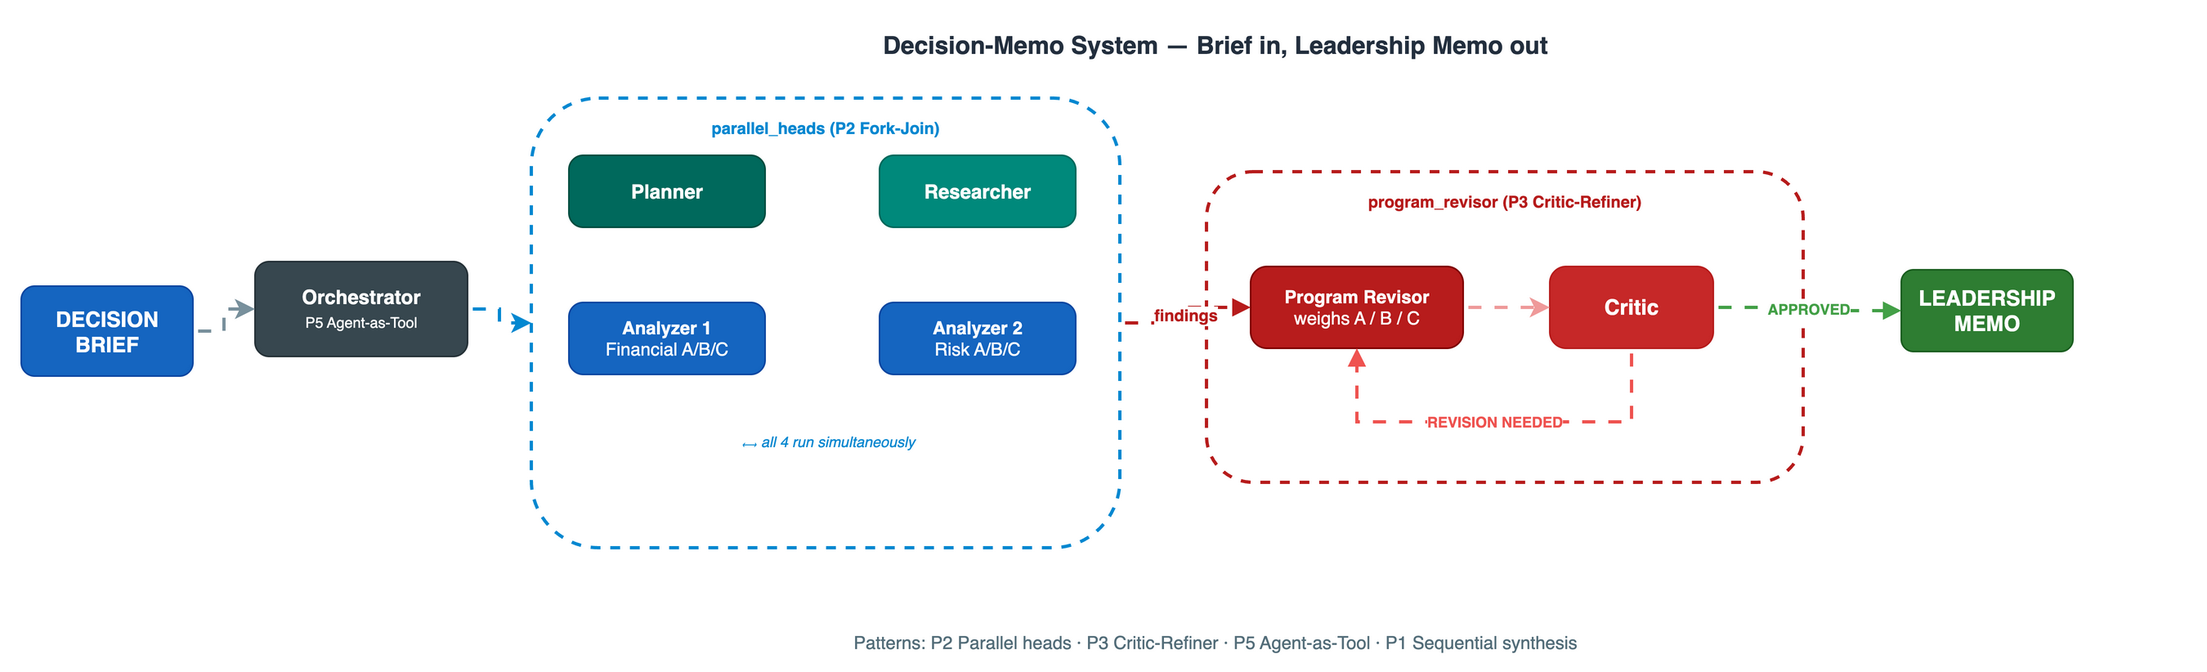
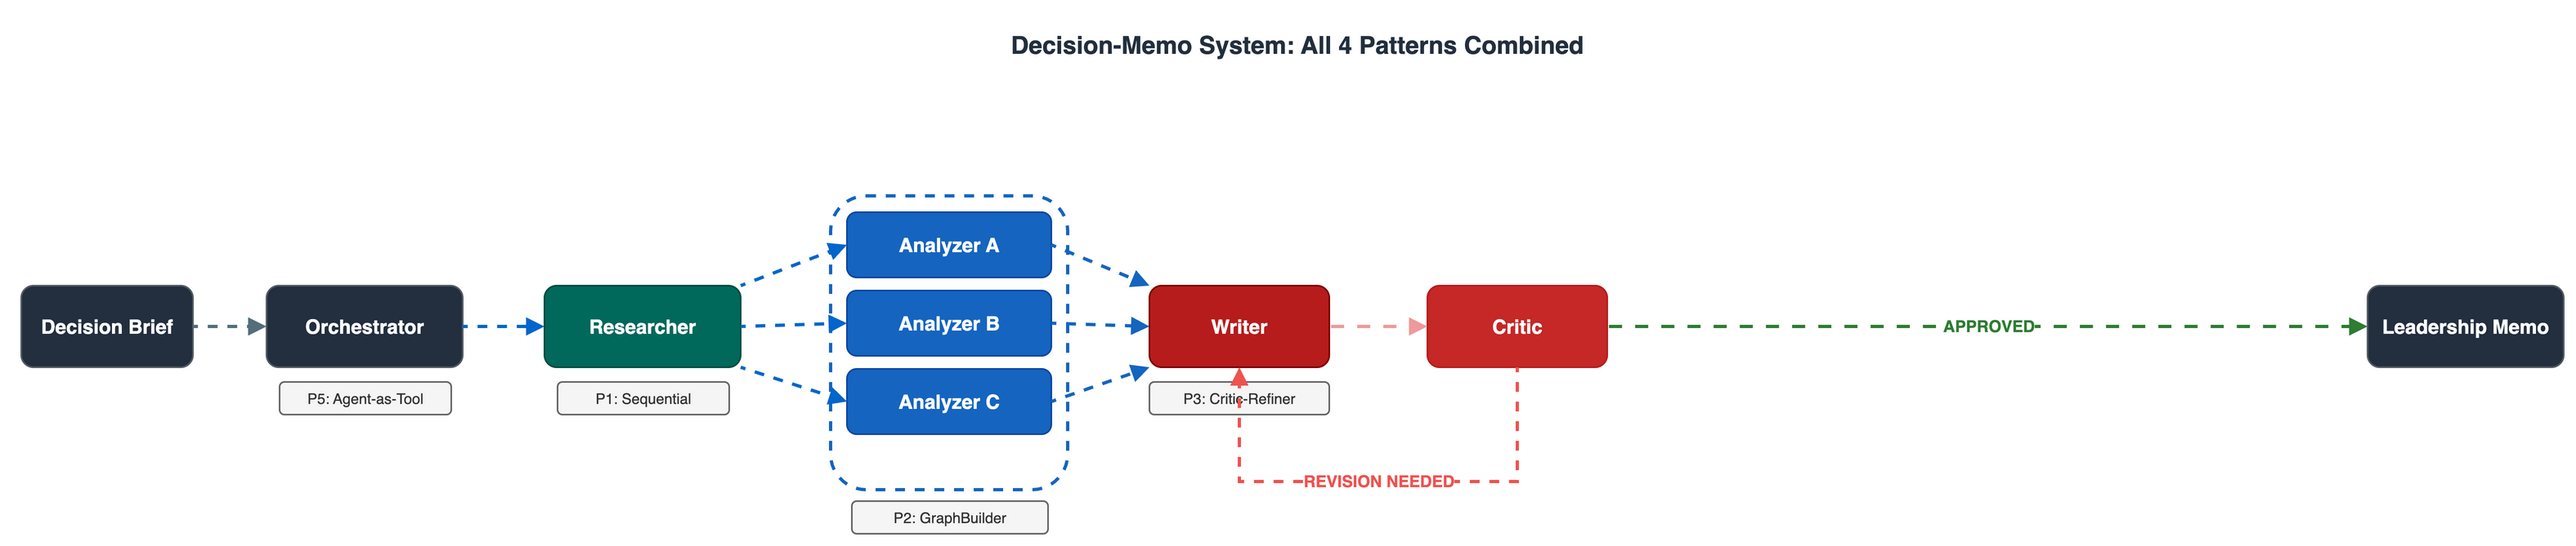
Module 08: restore correct architecture diagram (Researcher→Analyzers A/B/C→Writer↔Critic), update README

diff --git a/samples/08-capstone/README.md b/samples/08-capstone/README.md
@@ -13,21 +13,20 @@ All four multi-agent patterns combined into one complete pipeline.
 
 | Pattern | Component | Strands API |
 |---------|-----------|-------------|
-| **P2 Parallel heads** | Planner + Researcher + Analyzer 1 + Analyzer 2 run simultaneously | `asyncio.gather` + `invoke_async` |
-| **P3 Critic-Refiner** | Program Revisor drafts → Critic evaluates → loop until APPROVED | `GraphBuilder` + cycle edge |
-| **P5 Agent-as-Tool** | Orchestrator delegates to both tools | `@tool` wrapping sub-pipelines |
-| **P1 Sequential** | Parallel phase completes → Program Revisor synthesizes | Implicit sequencing |
+| **P5 Agent-as-Tool** | Orchestrator delegates to three specialist tools | `@tool` wrapping `Agent` |
+| **P1 Sequential** | Researcher gathers data; passed to analyzers | Python sequence |
+| **P2 Fork-Join** | Analyzers A, B, C run simultaneously | `asyncio.gather` + `invoke_async` |
+| **P3 Critic-Refiner** | Writer drafts memo → Critic approves or requests revision | `GraphBuilder` + cycle edge |
 
 ## Agents
 
 | Agent | Role |
 |-------|------|
-| **Planner** | Creates the analysis plan from the brief |
-| **Researcher** | Gathers market data with business intelligence tools |
-| **Analyzer 1** | Financial analysis of all 3 options (ROI, payback, budget) |
-| **Analyzer 2** | Risk analysis of all 3 options (complexity, mitigations) |
-| **Program Revisor** | Synthesizes all findings into the leadership memo |
-| **Critic** | Quality gate: checks 5 criteria; APPROVED or REVISION NEEDED |
+| **Researcher** | Gathers company data, benchmarks, and competitor intelligence |
+| **Analyzer A/B/C** | Evaluates one option each; all three run in parallel |
+| **Writer** | Drafts the executive leadership memo |
+| **Critic** | Quality gate: APPROVED or REVISION NEEDED |
+| **Orchestrator** | Coordinates the three tools; LLM decides call sequence |
 
 ## Files
 
